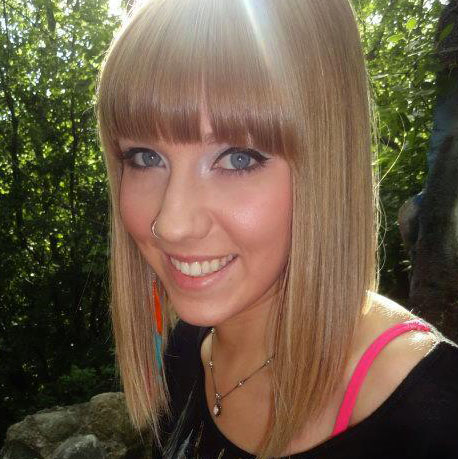
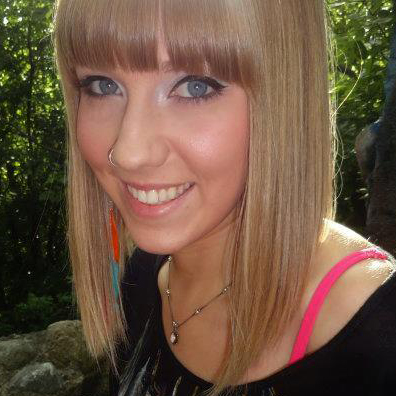
sized images

diff --git a/index.html b/index.html
@@ -34,11 +34,11 @@
 <h1 class="island-2 grey lob biggest" align="middle">Find Your Lobster</h1>
 
 <div class="grid">
-	<div align="middle" class="unit unit-l-1-3 unit-m-1-3 unit-s-1 unit-xs-1 pad-b-2"> <img class="photo" src="images/caroline.jpg" alt="Caroline" width=90%>
+	<div align="middle" class="unit unit-l-1-3 unit-m-1-3 unit-s-1 unit-xs-1 pad-b-2"> <img src="images/caroline.jpg" alt="Caroline" width=80%>
 	</div>
-	<div align="middle" class="unit unit-l-1-3 unit-m-1-3 unit-s-1 unit-xs-1 pad-b-2"> <img class="photo" src="images/alexei.jpg" alt="Alexei" width=90%>
+	<div align="middle" class="unit unit-l-1-3 unit-m-1-3 unit-s-1 unit-xs-1 pad-b-2"> <img src="images/alexei.jpg" alt="Alexei" width=80%>
 	</div>
-	<div align="middle" class="unit unit-l-1-3 unit-m-1-3 unit-s-1 unit-xs-1 pad-b-2"> <img class="photo" src="images/liane.jpg" alt="Liane" width=90%>
+	<div align="middle" class="unit unit-l-1-3 unit-m-1-3 unit-s-1 unit-xs-1 pad-b-2"> <img src="images/liane.jpg" alt="Liane" width=80%>
 	</div>
     </div>
   
@@ -101,7 +101,7 @@
     </li>
     
     <li>
-    	<img class="gutter" src="images/clock.svg" alt="see" height="70" width="70" class="pad-b">
+    	<img class="gutter pad-b" src="images/clock.svg" alt="see" height="70" width="70" class="pad-b">
 		Find out when someone reads your messages.
     </li>
     
